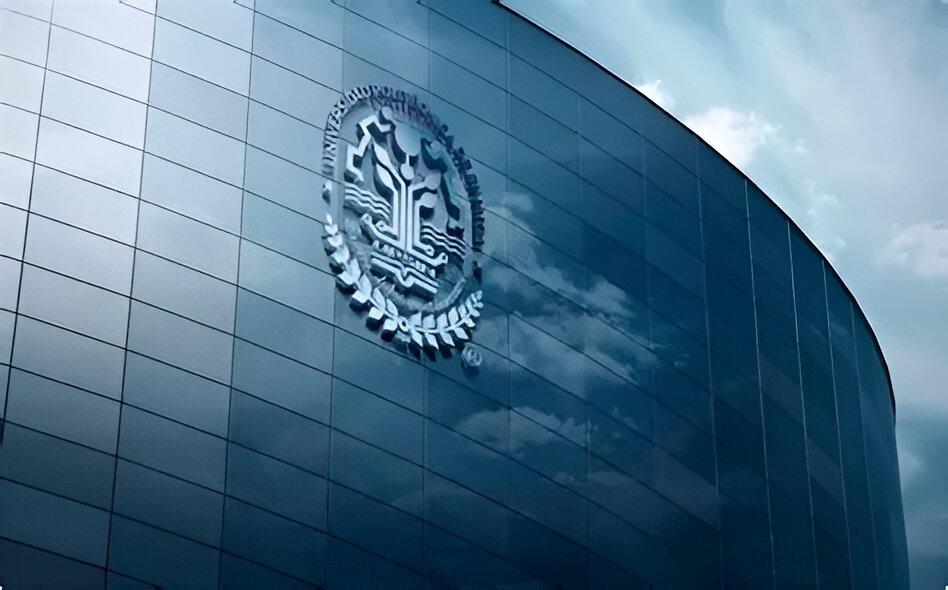
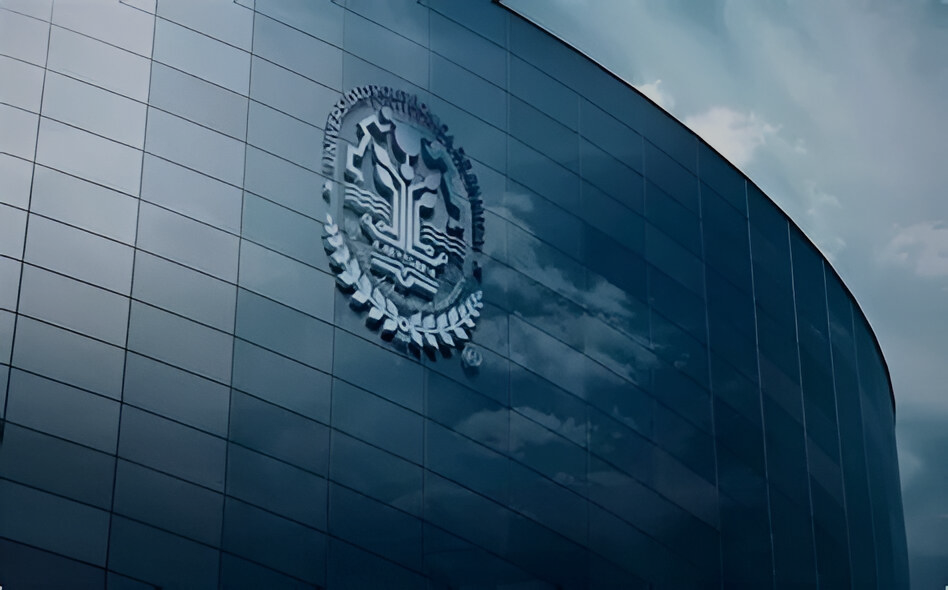
Se modificaron las configuraciones de las portadas

diff --git a/inicio.css b/inicio.css
@@ -319,13 +319,13 @@ header .img {
 }
 
 .portada-programa {
-  background-image: linear-gradient(rgba(0, 0, 0, 0.4), rgba(0, 0, 0, 0.4)),
+  background-image: 
     url("imagenes/portada-programa.png");
   /*filter: brightness(60%);*/
 }
 
 .portada-unidades {
-  background-image: linear-gradient(rgba(0, 0, 0, 0.4), rgba(0, 0, 0, 0.4)),
+  background-image: 
     url("imagenes/portada-unidades.png");
   /*filter: brightness(60%);*/
 }
